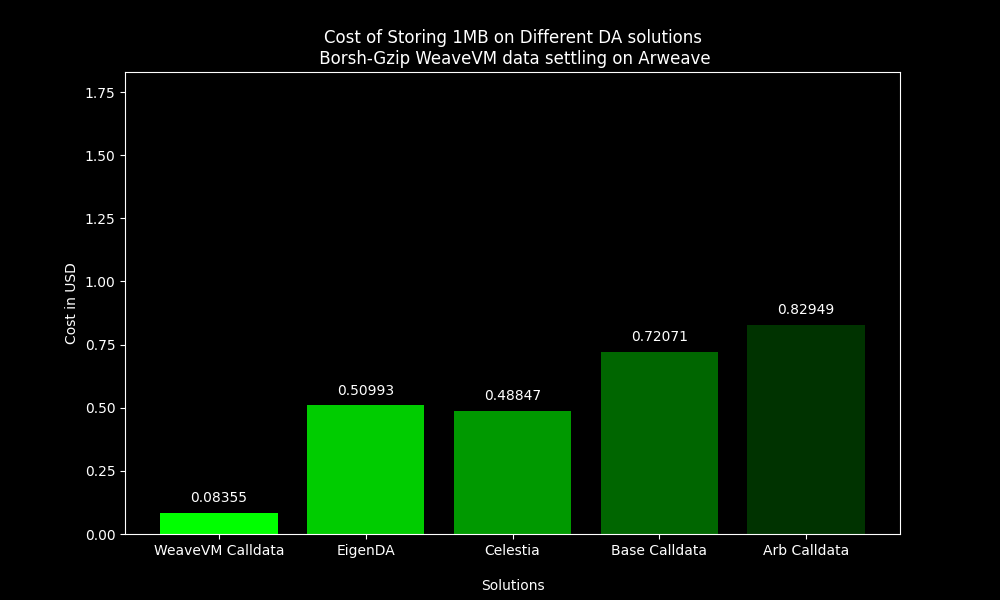
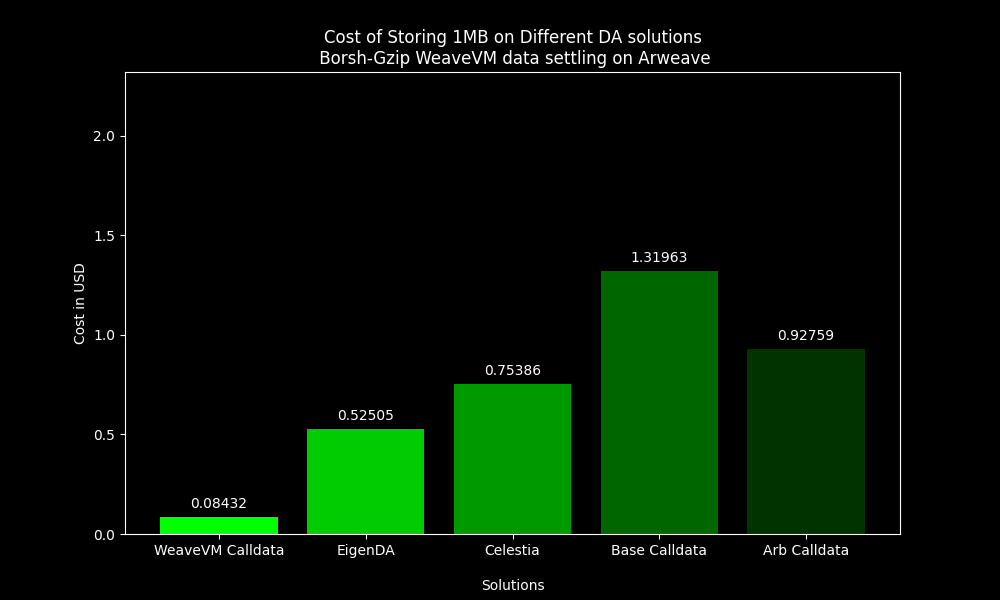
feat: add borsh_brotli_wvm_cost

diff --git a/borsh_brotli_wvm_cost/borsh_brotli_wvm_cost.py b/borsh_brotli_wvm_cost/borsh_brotli_wvm_cost.py
@@ -1,17 +1,17 @@
 import requests
 from borsh_construct import String
-import gzip
+import brotli
 import matplotlib.pyplot as plt
 sample_built_data = 'abc{a{}12345zz0xABCD"""""' * 40000 # 1_000_000 byte
 # borsh serialized data
 built_data = String.build(sample_built_data)
-# Gzip compressed 1MB
-compressed_1mb_gzip = gzip.compress(built_data)
-print(len(compressed_1mb_gzip))
+# Brotli compressed 1MB
+compressed_1mb_brotli = brotli.compress(built_data)
+print(len(compressed_1mb_brotli))
 
 KILOBYTE = 1_000
 CASE_STUDY_1MB = 1_000 * KILOBYTE
-ARWEAVE_1MB_BORSH_GZIP_PRICE_URL = f"https://arweave.net/price/{len(compressed_1mb_gzip)}"
+ARWEAVE_1MB_BORSH_GZIP_PRICE_URL = f"https://arweave.net/price/{len(compressed_1mb_brotli)}"
 COINGECKO_TOKENS_URL = "https://api.redstone.finance/prices?symbols=AR,TIA,ETH,BASE&provider=redstone"
 
 BASE_FEE = 21_000
@@ -121,7 +121,7 @@ plt.figure(figsize=(10, 6))
 colors = ['#00ff00', '#00cc00', '#009900', '#006600', '#003300']  # Different shades of green
 bars = plt.bar(platforms, costs, color=colors)
 # Add title and labels
-plt.title('Cost of Storing 1MB on Different DA solutions\n Borsh-Gzip WeaveVM data settling on Arweave')
+plt.title('Cost of Storing 1MB on Different DA solutions\n Borsh-Brotli WeaveVM data settling on Arweave')
 plt.xlabel('\nSolutions')
 plt.ylabel('Cost in USD')
 plt.ylim(0, max(costs) + 1)  # Add some space above the highest bar
@@ -133,5 +133,5 @@ for bar in bars:
     label = f'{yval:.5f}'
     plt.text(bar.get_x() + bar.get_width()/2, yval + 0.03, label, ha='center', va='bottom', color='white')
 
-plt.savefig("./borsh_gzip_wvm_cost/borsh_gzip_wvm_cost.png")
+plt.savefig("./borsh_brotli_wvm_cost/borsh_brotli_wvm_cost.png")
 plt.show()

diff --git a/README.md b/README.md
@@ -30,16 +30,18 @@ This comparison shows that using [Borsh](https://github.com/near/borsh) serializ
 ![](./borsh_vs_json_serialization/compare.png)
 
 ### `serialization_compression_benchmark`
-In this section, we test various compression algorithms using two data serialization methods (JSON and Borsh) on an [empty WeaveVM block](https://q55zvezq436ucq3tgrbqsve5rkyxgxtzgx4ybohbbjkpi3lyb54q.arweave.net/h3uakzDm_UFDczRDCVSdirFzXnk1-YC44QpU9G14D3k). We observe that with Borsh serialization, Gzip is the most efficient compression algorithm. On the other hand, for JSON-serialized block data, paq9a provides the best compression ratio.
+In this section, we test various compression algorithms using two data serialization methods (JSON and Borsh) on an [empty WeaveVM block](https://q55zvezq436ucq3tgrbqsve5rkyxgxtzgx4ybohbbjkpi3lyb54q.arweave.net/h3uakzDm_UFDczRDCVSdirFzXnk1-YC44QpU9G14D3k).
 
 ![](./serialization_compression_benchmark/borsh_serialized/borsh_serialized.png)
 
 ![](./serialization_compression_benchmark/json_serialized/json_serialized.png)
 
 ### `borsh_gzip_wvm_cost`
-After concluding that Gzip compression with Borsh serialization achieves the best compression ratio for WeaveVM data settling on Arweave, let's re-evaluate the data costs across different DA solutions.
 
 ![](./borsh_gzip_wvm_cost/borsh_gzip_wvm_cost.png)
 
+### `borsh_brotli_wvm_cost`
+
+![](./borsh_brotli_wvm_cost/borsh_brotli_wvm_cost.png)
 ## License
 This repository is licensed under the [MIT License](./LICENSE)
